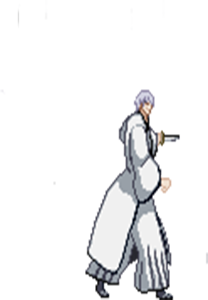
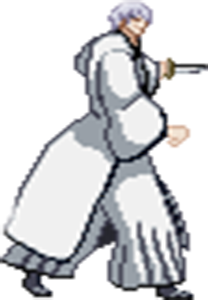
29.04.2023, dop

diff --git a/main.py b/main.py
@@ -570,6 +570,7 @@ class Player3(pygame.sprite.Sprite):
         self.jump_step = -22
         self.frame = 0
         self.timer_anime = 0
+        self.anime_death = False
         self.anime_idle = True
         self.anime_run = False
         self.anime_atk = False
@@ -577,7 +578,7 @@ class Player3(pygame.sprite.Sprite):
         self.anime_ult = False
         self.anime_form = False
         self.dir = "left"
-        self.hp = 100
+        self.hp = 1
         self.flag_damage = False
         self.hp_bar = "green"
         self.mask_list = []
@@ -628,7 +629,7 @@ class Player3(pygame.sprite.Sprite):
             self.anime_ult = True
             self.flag_damage = True
             gin_music.play()
-        if key[self.control[0]] and not self.anime_ult and not self.anime_atk and not self.anime_atk2:
+        if key[self.control[0]] and not self.anime_ult and not self.anime_ult and not self.form:
             self.rect.x += 6
             self.anime_idle = False
             if not self.anime_atk:
@@ -642,6 +643,14 @@ class Player3(pygame.sprite.Sprite):
             if not self.anime_atk and not self.anime_ult and not self.anime_atk2:
                 self.anime_idle = True
             self.anime_run = False
+        if self.hp <= 0 and not self.anime_ult and not self.anime_atk and not self.anime_atk2 and not self.anime_run and not self.jump:
+            self.anime_death = True
+            self.anime_atk = False
+            self.anime_atk2 = False
+            self.anime_idle = False
+            self.anime_run = False
+            self.anime_ult = False
+            self.jump = False
 
         if self.anime_idle:
             self.timer_anime += 1
@@ -654,10 +663,12 @@ class Player3(pygame.sprite.Sprite):
                 else:
                     self.frame += 1
                 self.timer_anime = 0
+
             try:
                 self.image = player3_idle_image[self.frame]
             except:
                 self.frame = 0
+
 
         if self.anime_run:
             self.timer_anime += 1
@@ -675,6 +686,8 @@ class Player3(pygame.sprite.Sprite):
             except:
                 self.frame = 0
 
+
+
         if self.anime_atk:
             self.timer_anime += 1
             if self.timer_anime / FPS > 0.1:
@@ -689,6 +702,27 @@ class Player3(pygame.sprite.Sprite):
                 self.image = player3_atk_image[self.frame]
             except:
                 self.frame = 0
+
+        if self.anime_death:
+            self.timer_anime += 1
+            if self.timer_anime / FPS > 0.1:
+                if self.frame == len(player3_death_image) - 1:
+                    self.frame = 0
+                    self.anime_atk = False
+                    self.anime_atk2 = False
+                    self.anime_idle = False
+                    self.anime_run = False
+                    self.anime_ult = False
+                    self.jump = False
+
+                else:
+                    self.frame += 1
+                self.timer_anime = 0
+            try:
+                self.image = player3_death_image[self.frame]
+            except:
+                self.frame = 0
+
 
         if self.anime_atk2:
             self.timer_anime += 1
@@ -756,8 +790,7 @@ class Player3(pygame.sprite.Sprite):
             pygame.draw.rect(sc, (0, 191, 255), (0, 50, 150, 30))
             sc.blit(BANKAI_image, (65, 55))
 
-        if self.hp <= 0:
-            self.kill()
+
 
         if self.rect.center[0] - player2.rect.center[0] < 0:
             self.dir = "right"

diff --git a/load.py b/load.py
@@ -24,6 +24,13 @@ player3_atk_image = [pygame.image.load("image/gin/ginatk1.png").convert_alpha(),
                      pygame.image.load("image/gin/ginatk5.png").convert_alpha(),
                      pygame.image.load("image/gin/ginatk6.png").convert_alpha()]
 
+player3_death_image = [pygame.image.load("image/gin/gindeath1.png").convert_alpha(),
+                       pygame.image.load("image/gin/gindeat2.png").convert_alpha(),
+                       pygame.image.load("image/gin/gindeath3.png").convert_alpha(),
+                       pygame.image.load("image/gin/gindeat4.png").convert_alpha(),
+                       pygame.image.load("image/gin/gindeat5.png").convert_alpha(),
+                       pygame.image.load("image/gin/gindeath6.png").convert_alpha()]
+
 player3_atk2_image = [pygame.image.load("image/gin/gin 1 atk 2.png").convert_alpha(),
                       pygame.image.load("image/gin/gin 2 atk 2.png").convert_alpha(),
                       pygame.image.load("image/gin/gin 3 atk 2.png").convert_alpha(),
@@ -77,8 +84,6 @@ player2_atk2_image = [pygame.image.load("image/byakuya/2 atk 11.png").convert_al
                      pygame.image.load("image/byakuya/2 atk 18.png").convert_alpha(),
                      pygame.image.load("image/byakuya/2 atk 19.png").convert_alpha()]
 
-
-
 player1_idle_image = [pygame.image.load("image/aizen/1.png").convert_alpha(),
                       pygame.image.load("image/aizen/2.png").convert_alpha(),
                       pygame.image.load("image/aizen/3.png").convert_alpha(),
@@ -126,7 +131,6 @@ player1_death_image = [pygame.image.load("image/aizen/death1.png").convert_alpha
                        pygame.image.load("image/aizen/death4.png").convert_alpha(),
                        pygame.image.load("image/aizen/death5.png").convert_alpha()]
 
-
 bg_image = [pygame.image.load("image/fon/1.jpg").convert_alpha(),
             pygame.image.load("image/fon/2.jpg").convert_alpha(),
             pygame.image.load("image/fon/3.jpg").convert_alpha(),
@@ -135,7 +139,6 @@ bg_image = [pygame.image.load("image/fon/1.jpg").convert_alpha(),
             pygame.image.load("image/fon/6.jpg").convert_alpha(),
             pygame.image.load("image/fon/7.jpg").convert_alpha(),
             pygame.image.load("image/fon/8.jpg").convert_alpha()]
-
 
 menu_image = pygame.image.load("image/menu/menu.jpg").convert_alpha()
 start_image = pygame.image.load("image/menu/start.png").convert_alpha()
